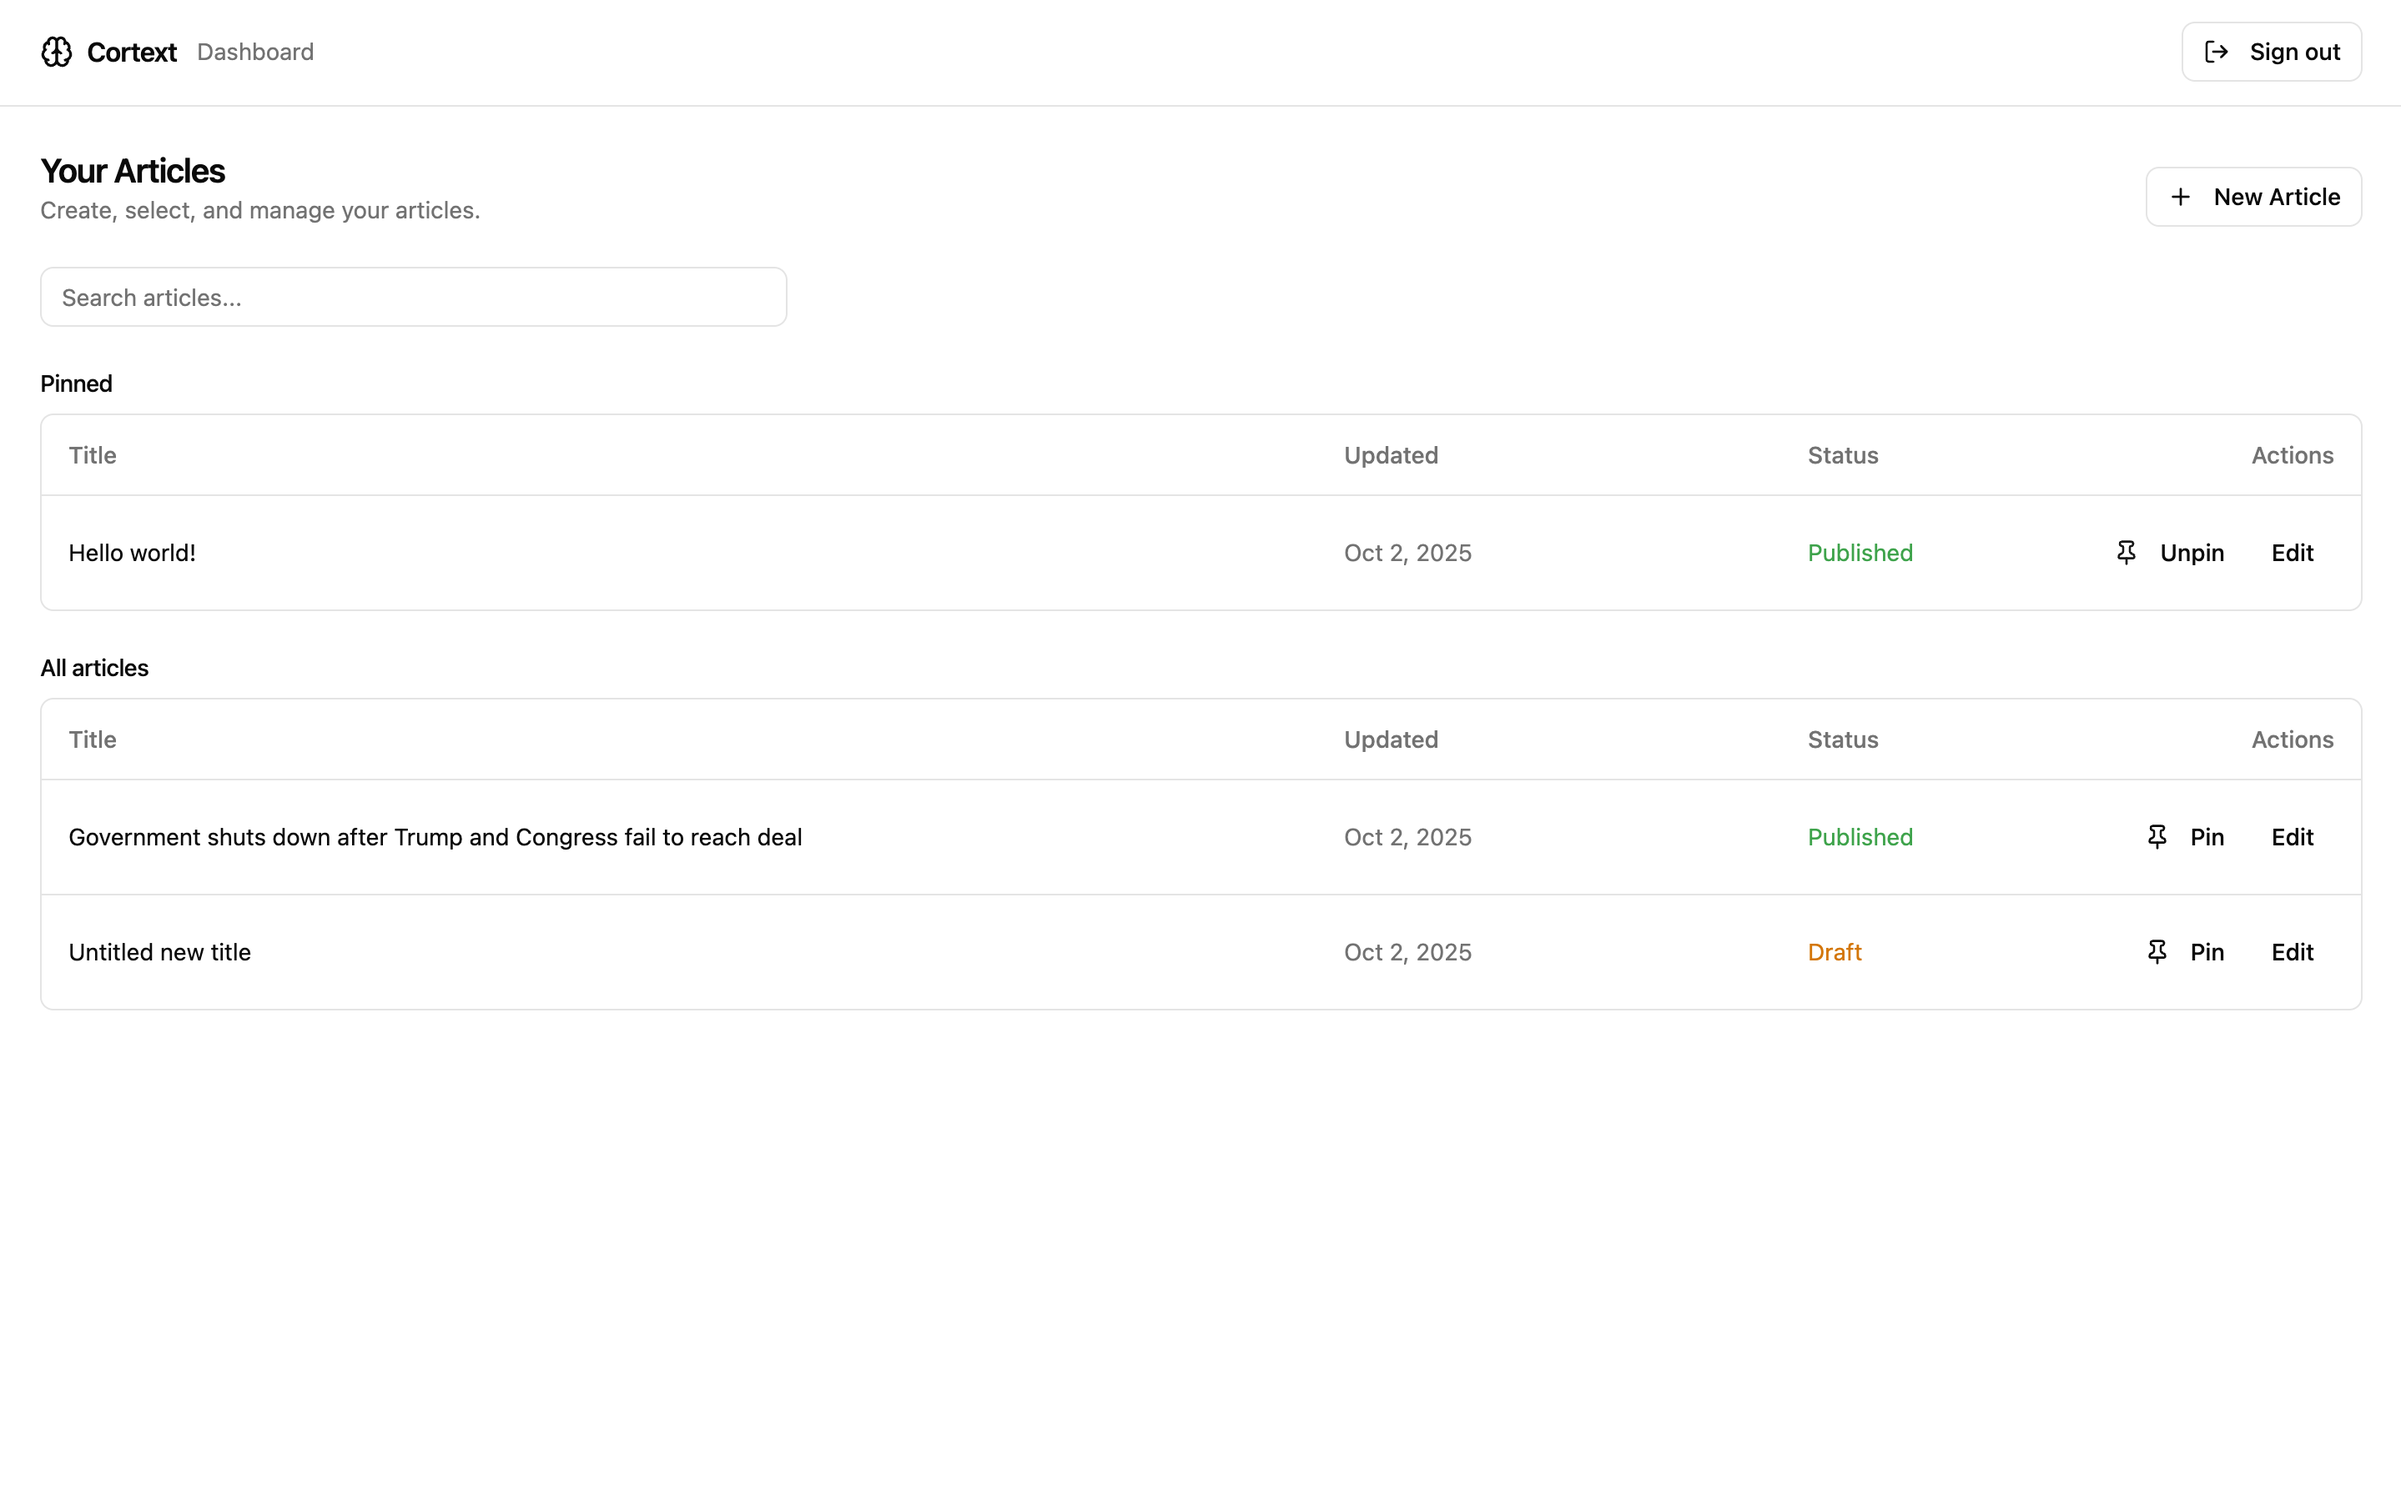
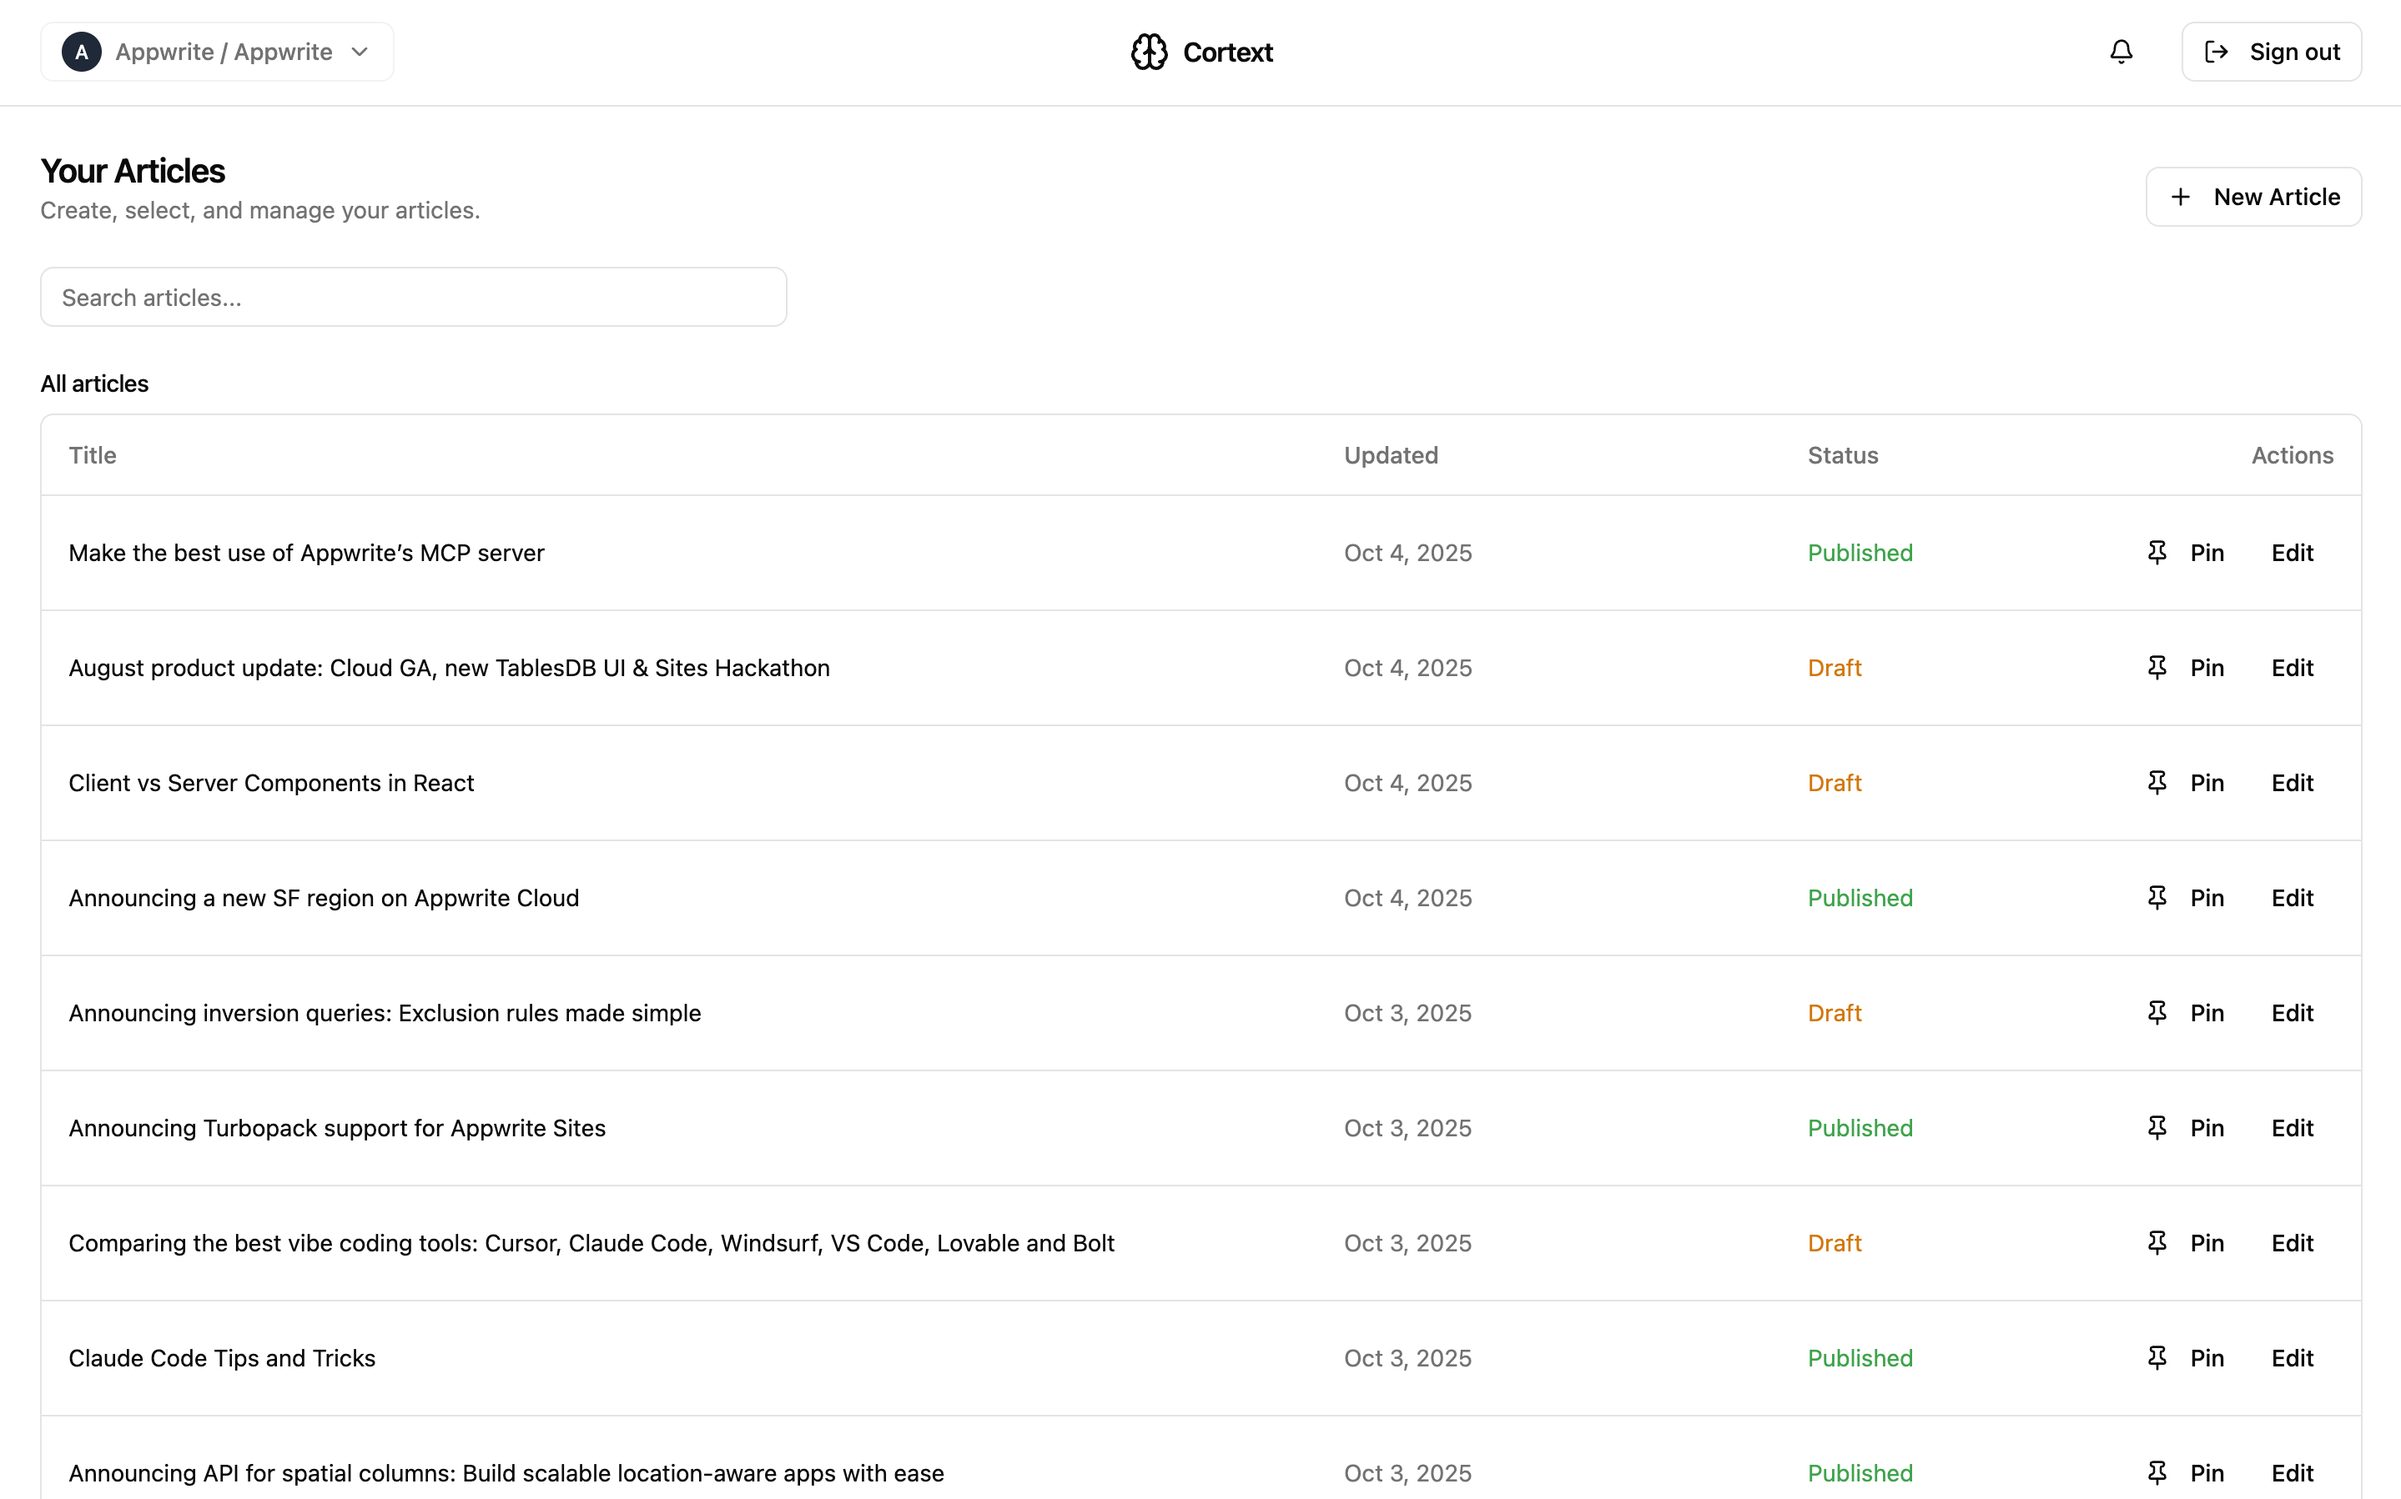
Updates

diff --git a/src/routes/_protected/dashboard.tsx b/src/routes/_protected/dashboard.tsx
@@ -13,7 +13,7 @@ import { Label } from '@/components/ui/label'
 import { Textarea } from '@/components/ui/textarea'
 import { Checkbox } from '@/components/ui/checkbox'
 import { toast } from '@/hooks/use-toast'
-import { Image as ImageIcon, Plus, Trash2, Save, Video, MapPin, Type as TypeIcon, Upload, ArrowLeft, LogOut, GripVertical, Brain, Loader2, Heading1, Quote, Pin as PinIcon, FileText, Quote as QuoteIcon, Code } from 'lucide-react'
+import { Image as ImageIcon, Plus, Trash2, Save, Video, MapPin, Type as TypeIcon, Upload, ArrowLeft, LogOut, GripVertical, Brain, Loader2, Heading1, Quote, Pin as PinIcon, FileText, Quote as QuoteIcon, Code, ChevronLeft, ChevronRight } from 'lucide-react'
 import { AgentChat } from '@/components/agent/agent-chat'
 import { AuthorSelector } from '@/components/author'
 import { CategorySelector } from '@/components/category'
@@ -192,13 +192,19 @@ function ArticlesList({ userId }: { userId: string }) {
     const navigate = useNavigate()
     const { currentBlog, currentTeam } = useTeamBlogContext()
 
+    // Pagination state
+    const [currentPage, setCurrentPage] = useState(1)
+    const pageSize = 10 // Fixed page size
+    const [query, setQuery] = useState('')
 
     const { data: articleList, isPending: loadingArticles } = useQuery({
-        queryKey: ['articles', userId, currentBlog?.$id],
+        queryKey: ['articles', userId, currentBlog?.$id, currentPage, pageSize],
         queryFn: async () => {
             const queries = [
                 Query.equal('createdBy', [userId]),
                 Query.orderDesc('$updatedAt'),
+                Query.limit(pageSize),
+                Query.offset((currentPage - 1) * pageSize),
             ]
             
             // Only filter by blog ID if a blog is selected
@@ -224,7 +230,11 @@ function ArticlesList({ userId }: { userId: string }) {
         onError: () => toast({ title: 'Failed to update pin' }),
     })
 
-    const [query, setQuery] = useState('')
+    // Reset to first page when search query changes
+    useEffect(() => {
+        setCurrentPage(1)
+    }, [query])
+
     const all = articleList?.documents ?? []
     const filtered = query
         ? all.filter((a) => (a.title || 'Untitled').toLowerCase().includes(query.toLowerCase()))
@@ -232,6 +242,12 @@ function ArticlesList({ userId }: { userId: string }) {
 
     const pinned = filtered.filter((a) => a.pinned)
     const others = filtered.filter((a) => !a.pinned)
+
+    // Calculate pagination info
+    const totalCount = articleList?.total ?? 0
+    const totalPages = Math.ceil(totalCount / pageSize)
+    const hasNextPage = currentPage < totalPages
+    const hasPrevPage = currentPage > 1
 
     const ColGroup = () => (
         <colgroup>
@@ -375,6 +391,62 @@ function ArticlesList({ userId }: { userId: string }) {
                                 <ArticlesTable rows={others as Articles[]} />
                             )}
                         </section>
+
+                        {/* Pagination Controls */}
+                        {totalPages > 1 && (
+                            <div className="flex items-center justify-between">
+                                <div className="text-sm text-muted-foreground">
+                                    Showing {((currentPage - 1) * pageSize) + 1} to {Math.min(currentPage * pageSize, totalCount)} of {totalCount} articles
+                                </div>
+                                <div className="flex items-center gap-2">
+                                    <Button
+                                        variant="outline"
+                                        size="sm"
+                                        onClick={() => setCurrentPage(prev => Math.max(1, prev - 1))}
+                                        disabled={!hasPrevPage}
+                                        className="cursor-pointer"
+                                    >
+                                        <ChevronLeft className="h-4 w-4" />
+                                    </Button>
+                                    <div className="flex items-center gap-1">
+                                        {Array.from({ length: Math.min(5, totalPages) }, (_, i) => {
+                                            let pageNum;
+                                            if (totalPages <= 5) {
+                                                pageNum = i + 1;
+                                            } else if (currentPage <= 3) {
+                                                pageNum = i + 1;
+                                            } else if (currentPage >= totalPages - 2) {
+                                                pageNum = totalPages - 4 + i;
+                                            } else {
+                                                pageNum = currentPage - 2 + i;
+                                            }
+                                            
+                                            return (
+                                                <Button
+                                                    key={pageNum}
+                                                    variant={currentPage === pageNum ? "default" : "outline"}
+                                                    size="sm"
+                                                    onClick={() => setCurrentPage(pageNum)}
+                                                    className="cursor-pointer w-8 h-8 p-0"
+                                                >
+                                                    {pageNum}
+                                                </Button>
+                                            );
+                                        })}
+                                    </div>
+                                    <Button
+                                        variant="outline"
+                                        size="sm"
+                                        onClick={() => setCurrentPage(prev => Math.min(totalPages, prev + 1))}
+                                        disabled={!hasNextPage}
+                                        className="cursor-pointer"
+                                    >
+                                        <ChevronRight className="h-4 w-4" />
+                                    </Button>
+                                </div>
+                            </div>
+                        )}
+
                     </div>
                     </>
                 )}
